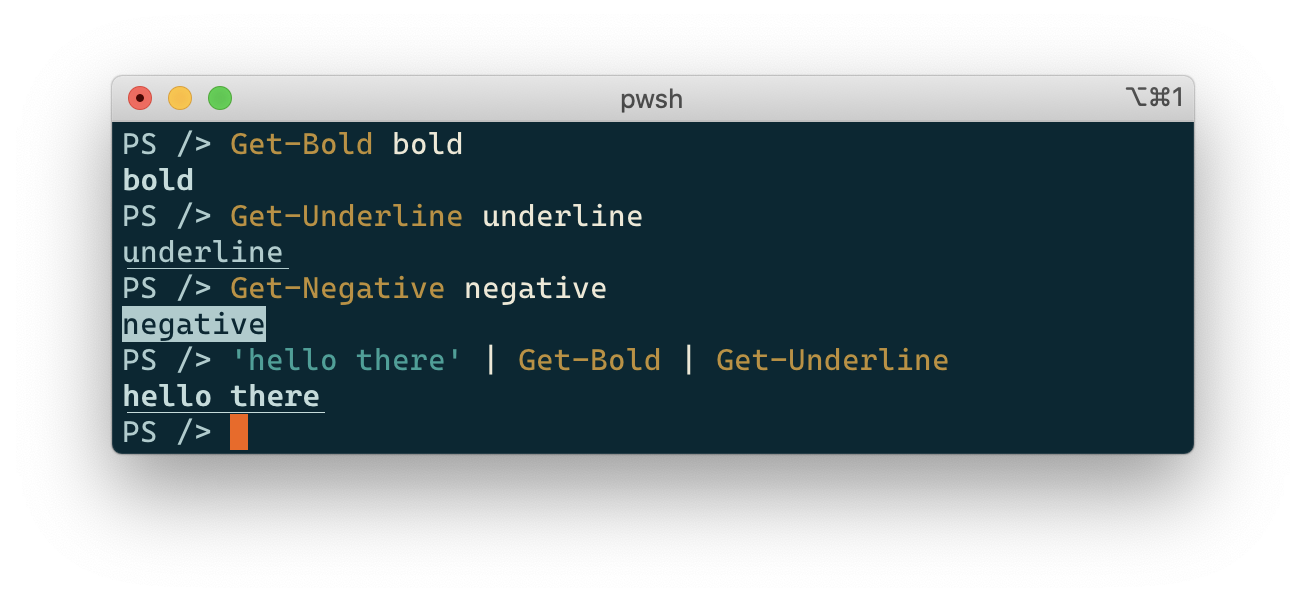
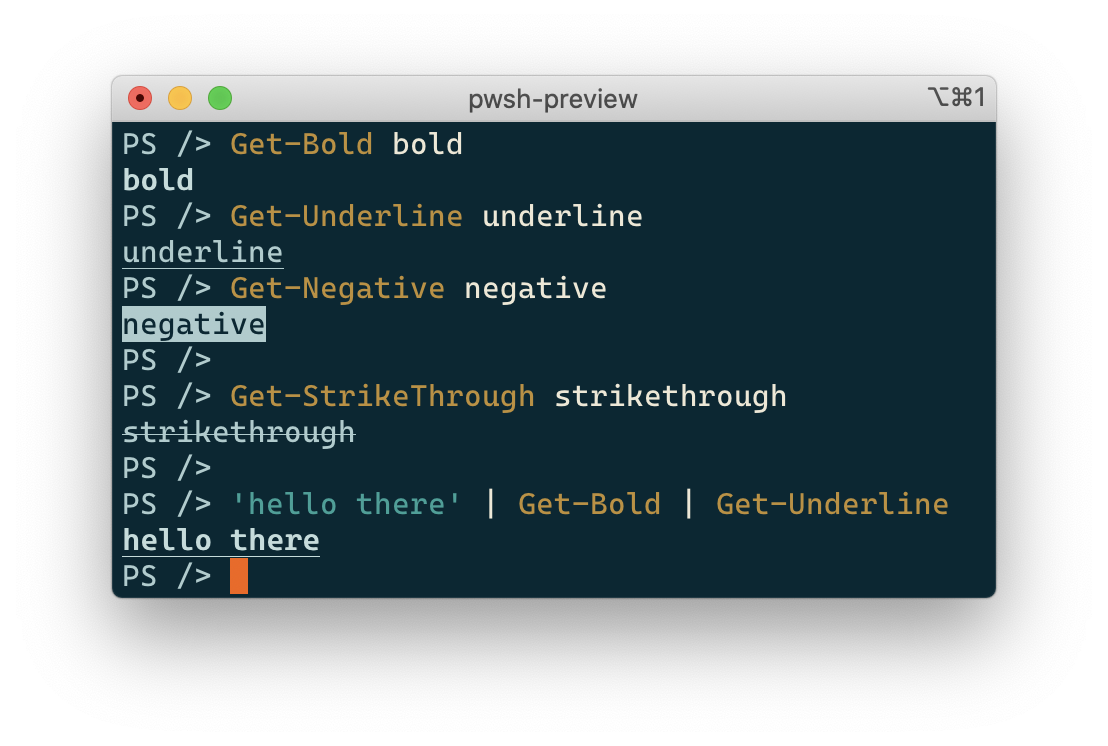
Add Get-StrikeThrough

Changed region(s): [[0.0614, 0.0897, 0.9206, 0.8372], [0.4296, 0.6578, 0.8592, 0.6877]]

diff --git a/README.md b/README.md
@@ -61,6 +61,10 @@ Get-Bold bold
 Get-Underline underline
 Get-Negative negative
 
+# Strike through (available in PowerShell v7.2.0-preview.3 +)
+# See https://github.com/PowerShell/PowerShell/pull/14461
+Get-StrikeThrough strikethrough
+
 # They can be combined too in pipes
 'hello there' | Get-Bold | Get-Underline
 ```
